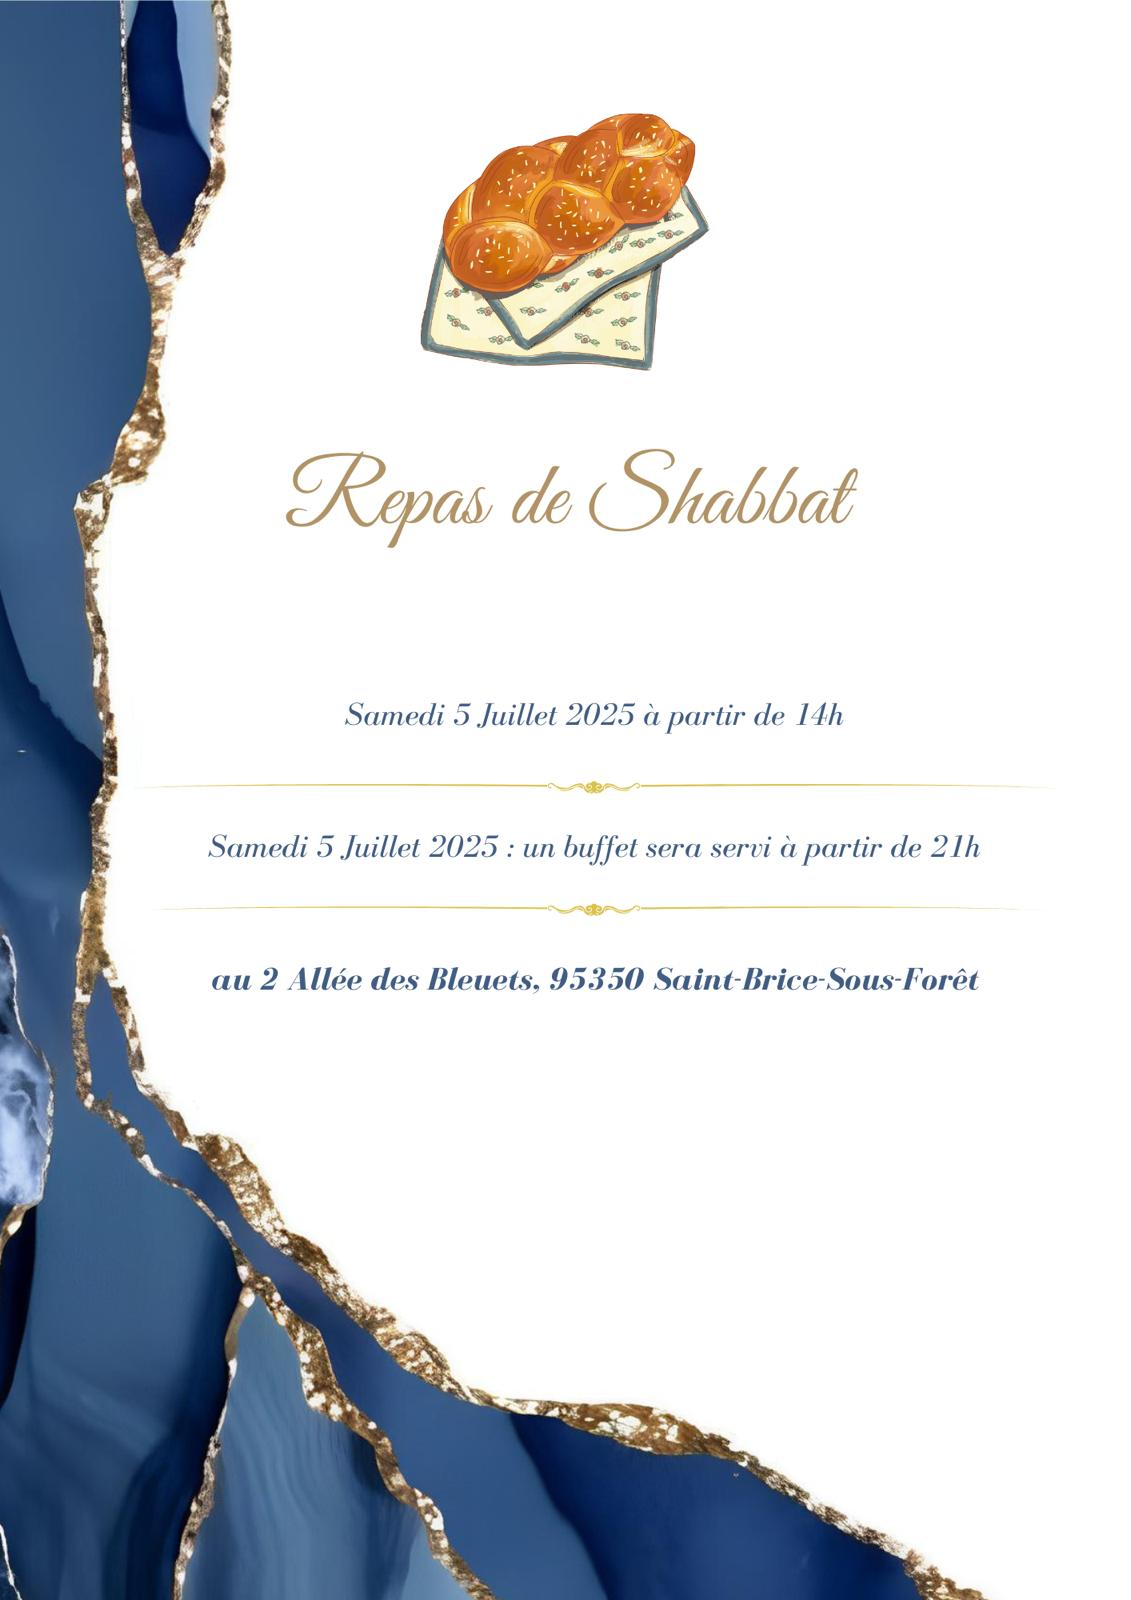
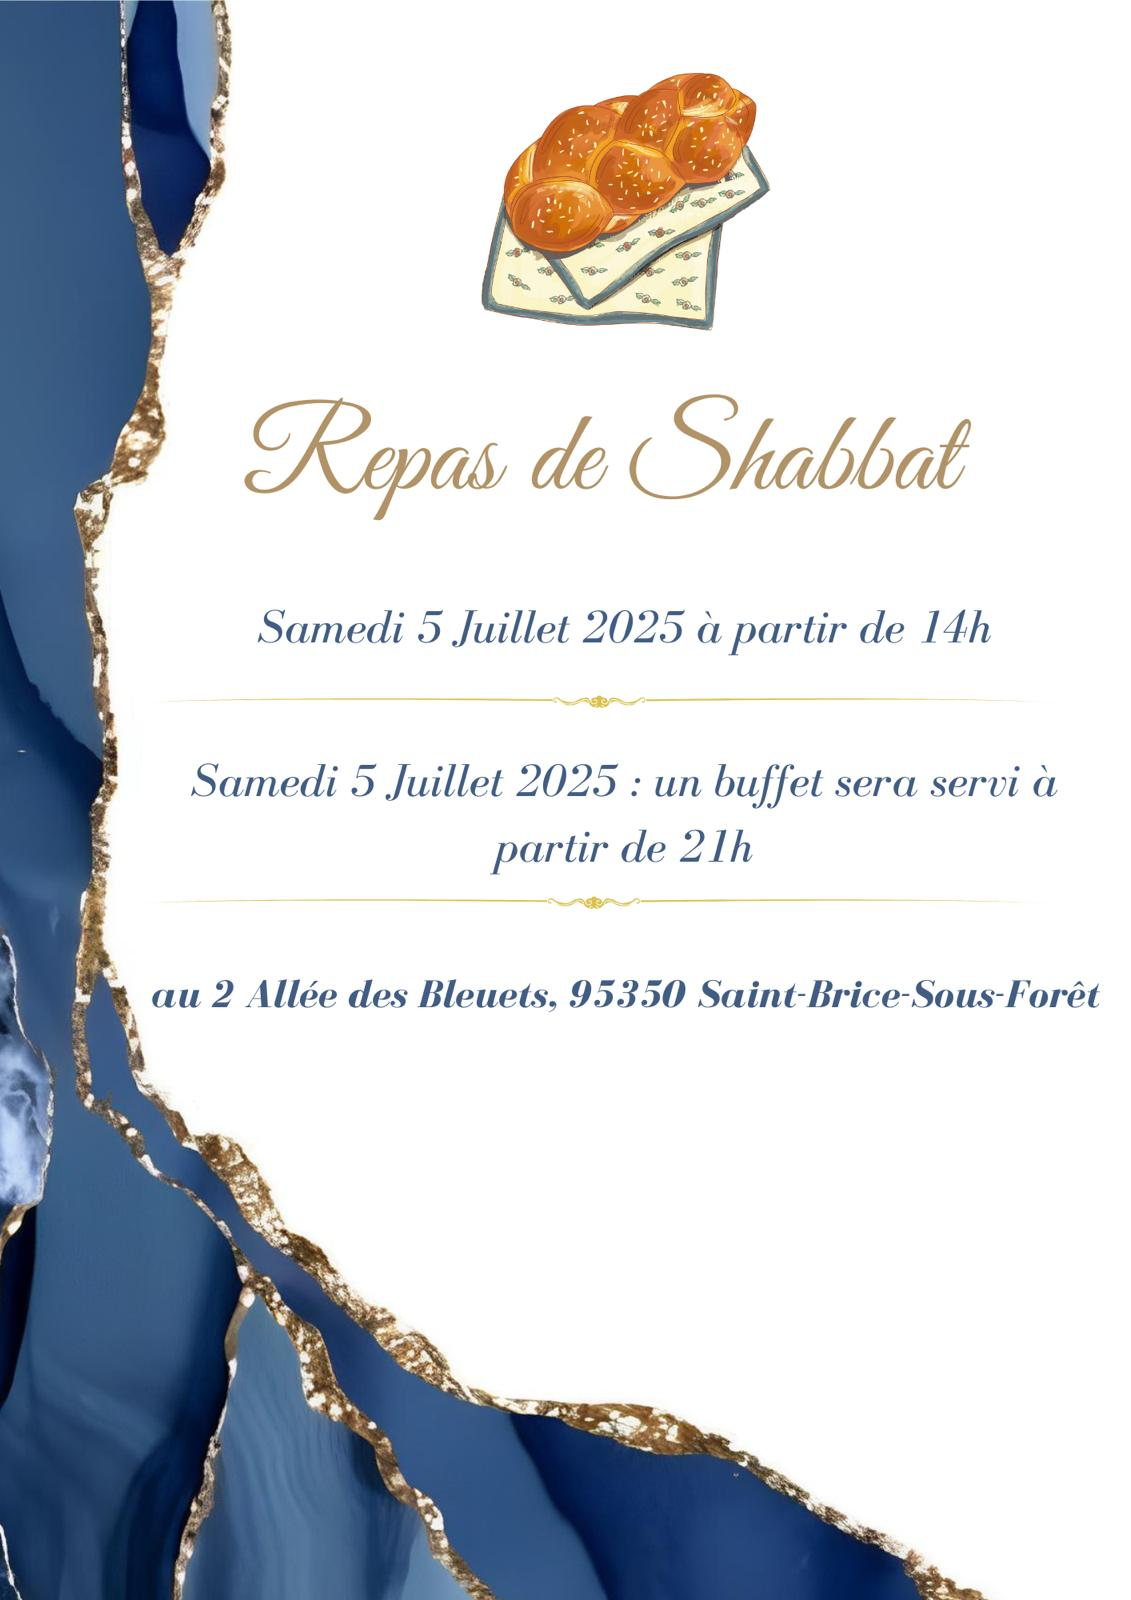
q

diff --git a/css/style.css b/css/style.css
@@ -20,7 +20,7 @@ body {
 }
 
 .image-section img {
-  max-width: 100%;
+  width: 100vw;
   height: auto;
   display: block;
 }
